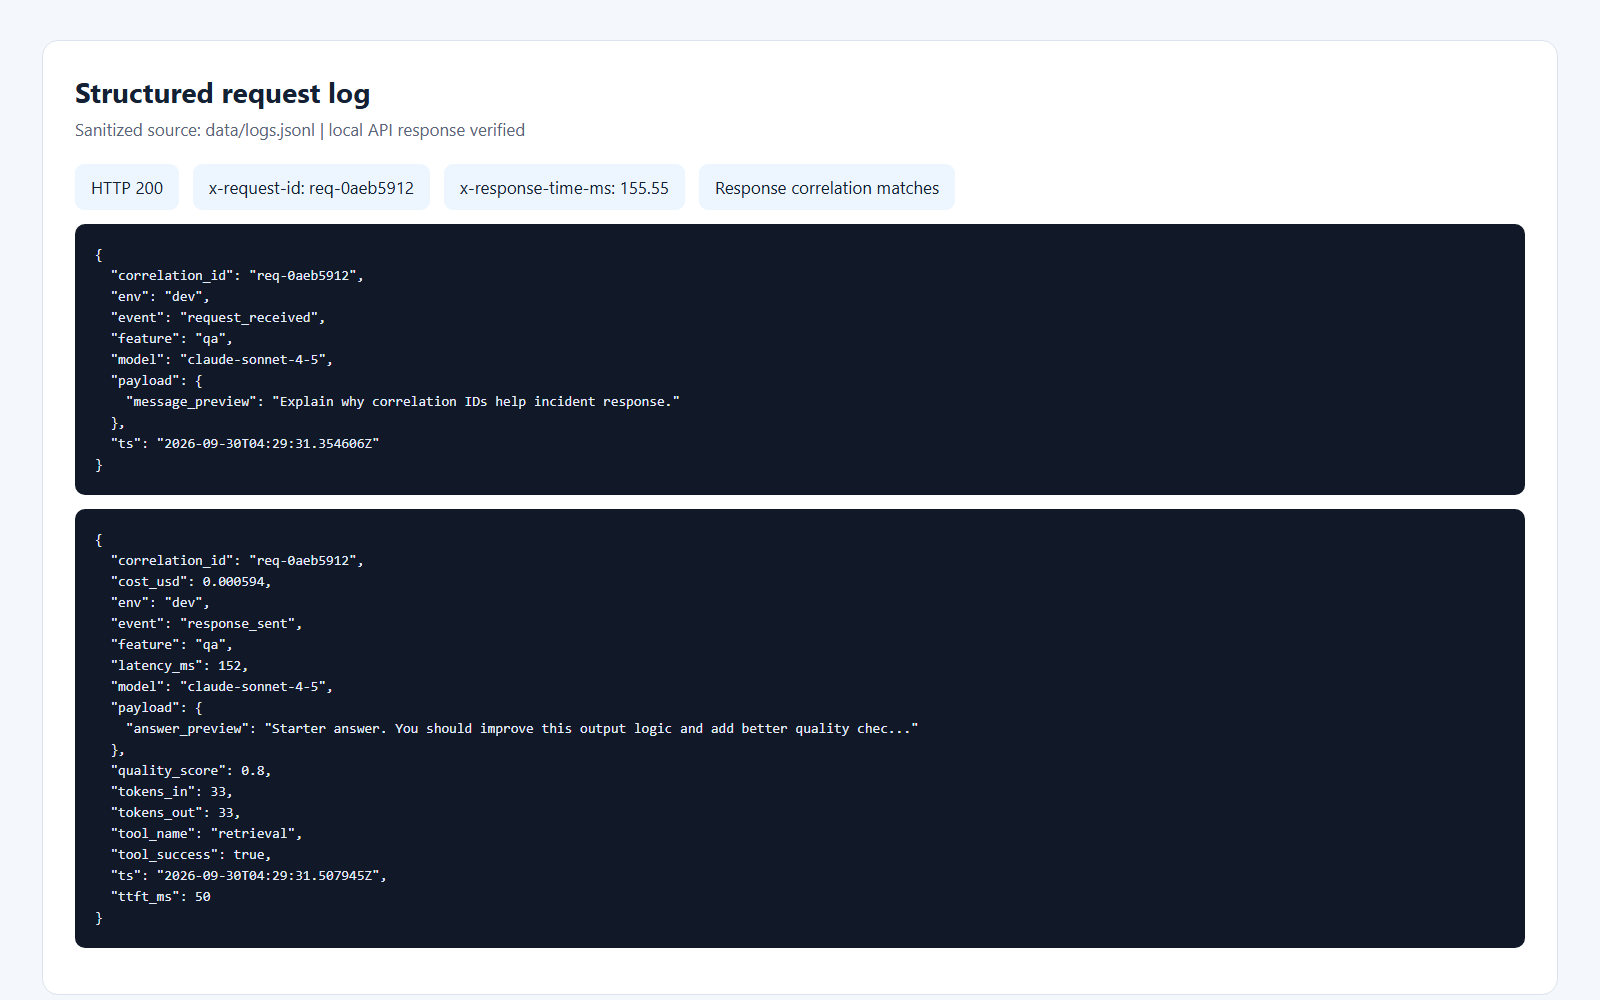
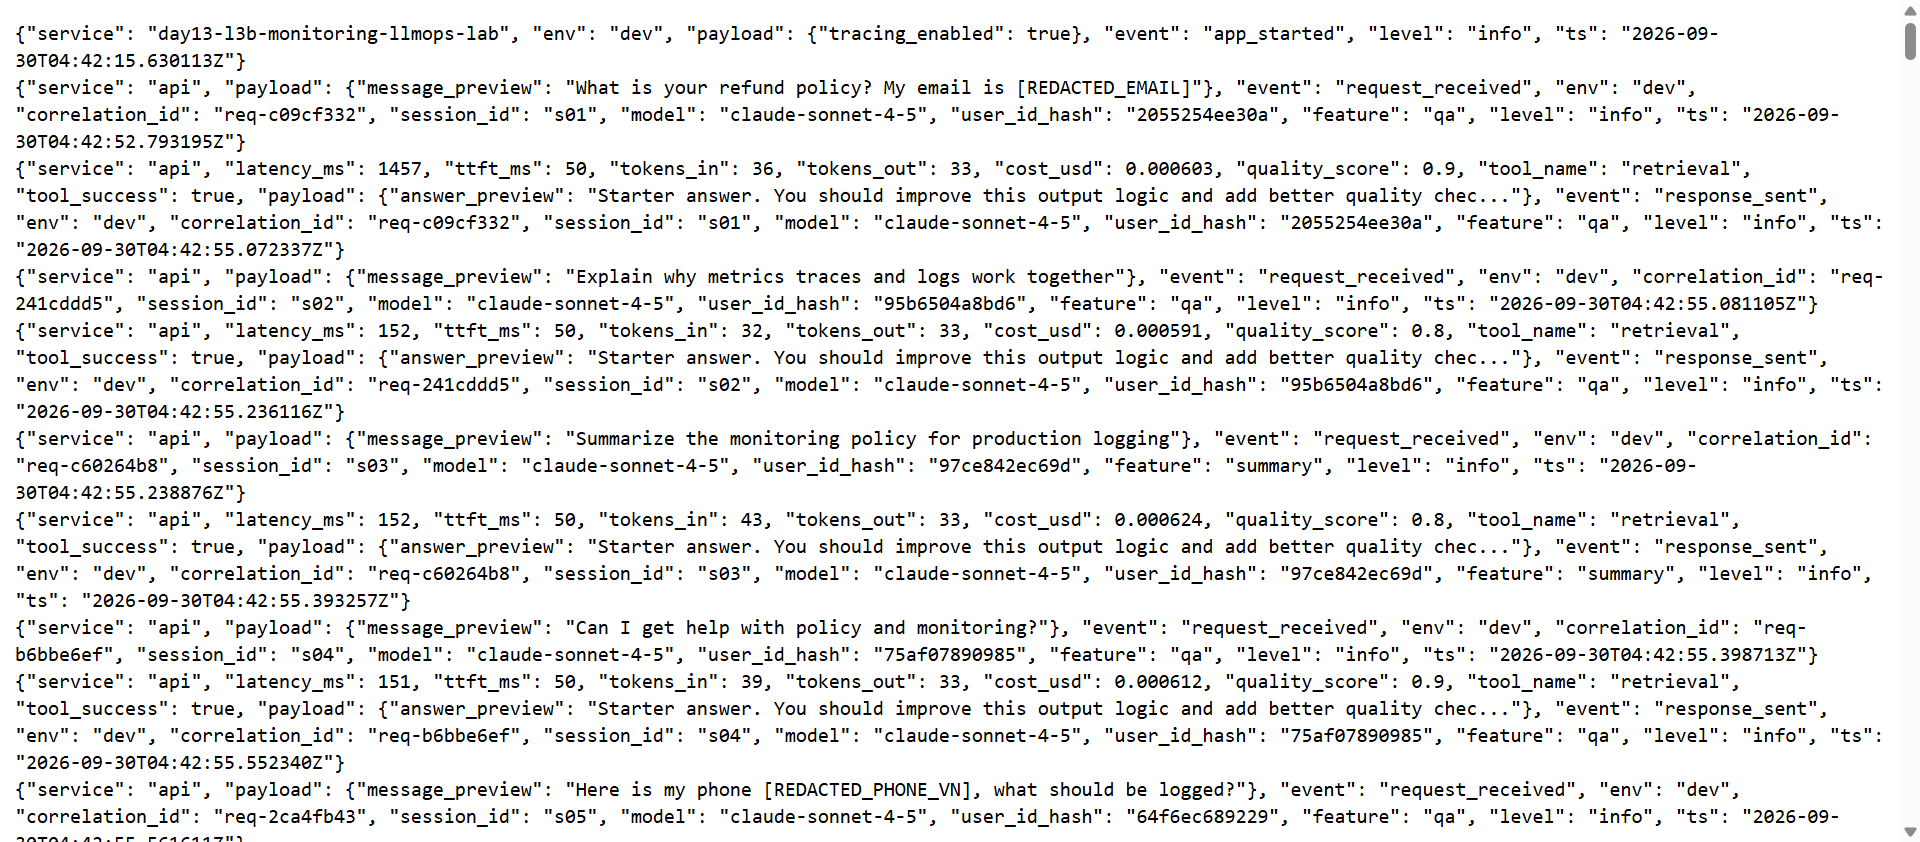
updated

diff --git a/submission/REPORT.md b/submission/REPORT.md
@@ -11,6 +11,28 @@
 
 ## 2. Evidence
 
+### Screenshots
+
+![Structured request log and shared correlation ID](evidence/04-structured-log.png)
+
+![PII redaction markers in the log](evidence/05-pii-redaction.png)
+
+![Langfuse trace list](evidence/06-trace-list.png)
+
+![Langfuse trace waterfall](evidence/07-trace-waterfall.png)
+
+![Langfuse trace metadata](evidence/08-trace-metadata.png)
+
+![Langfuse prompt versions](evidence/09-prompt-versions.png)
+
+![Langfuse prompt rollback state](evidence/10-prompt-rollback.png)
+
+![Six-panel dashboard](evidence/11-dashboard-overview.png)
+
+![CP3 practice log events](evidence/13-practice-log.png)
+
+![Langfuse CP3 practice trace](evidence/14-practice-trace.png)
+
 | Nội dung | Tệp |
 |---|---|
 | CP0 environment | [00-cp0-environment.txt](evidence/00-cp0-environment.txt) |
@@ -21,7 +43,7 @@
 | PII redaction | [05-pii-redaction.png](evidence/05-pii-redaction.png), [text details](evidence/05-pii-redaction.txt) |
 | Valid/invalid request ID live smoke | [32-request-id-smoke.txt](evidence/32-request-id-smoke.txt) |
 | Trace list | [06-trace-list.txt](evidence/06-trace-list.txt) |
-| Langfuse trace list UI | [screenlangfuse.png](evidence/screenlangfuse.png) |
+| Langfuse trace list UI | [06-trace-list.png](evidence/06-trace-list.png) |
 | Trace waterfall | [07-trace-waterfall.txt](evidence/07-trace-waterfall.txt) |
 | Trace metadata và token/cost | [08-trace-metadata.txt](evidence/08-trace-metadata.txt) |
 | Prompt versions | [09-prompt-versions.txt](evidence/09-prompt-versions.txt) |
@@ -36,7 +58,7 @@
 | Kiểm tra | Kết quả |
 |---|---|
 | CP0 Python / dependencies | Python 3.13.13; FastAPI 0.118.0; structlog 25.4.0; Langfuse 4.15.6; PyYAML 6.0.3 |
-| `validate_logs.py` | 100/100; 206 log rows; 102 correlation IDs; 0 PII hit |
+| `validate_logs.py` | 100/100; 246 log rows; 122 correlation IDs; 0 PII hit |
 | `validate_dashboard.py` | Hợp lệ 6/6 panel |
 | pytest | 28 passed |
 | Langfuse | 33 complete trees trong 100 observation gần nhất; 0 nonempty raw input/output; CP3 correlation evidence được lưu riêng |
